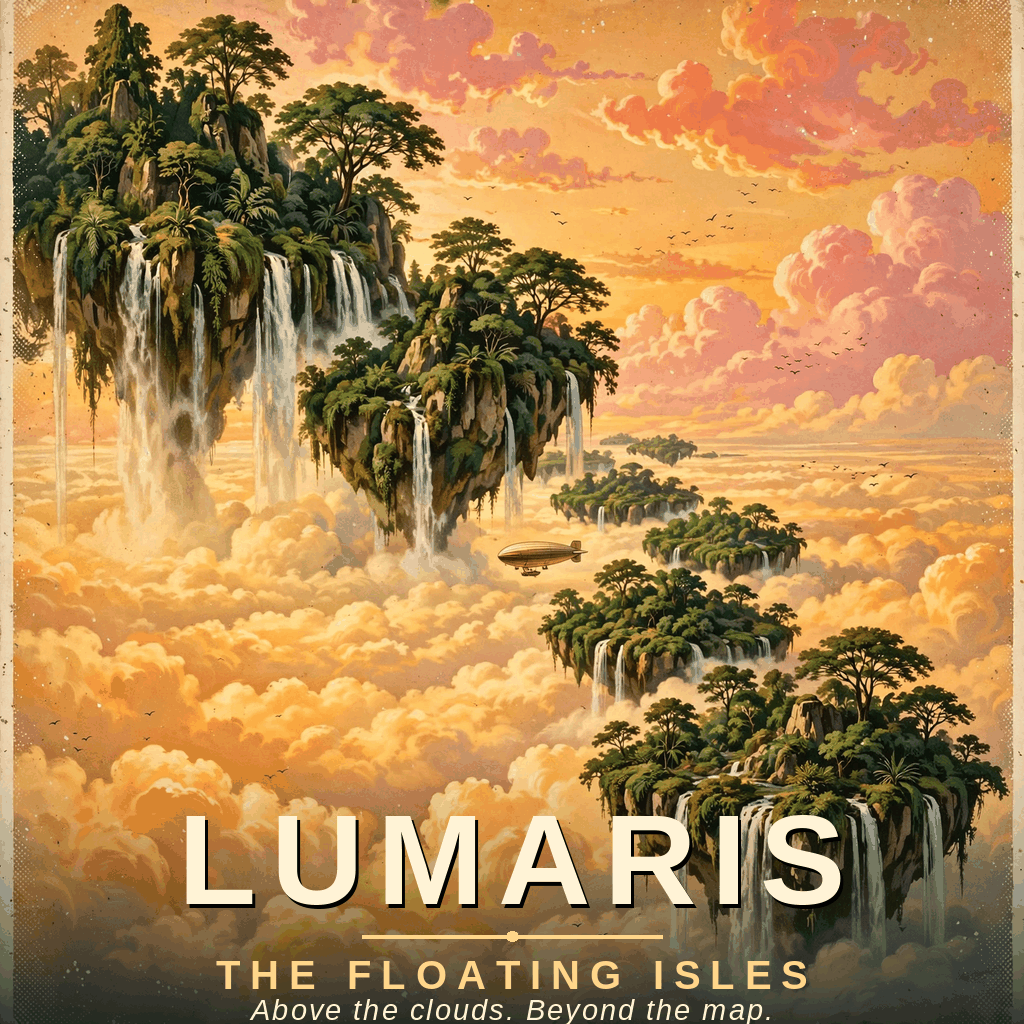
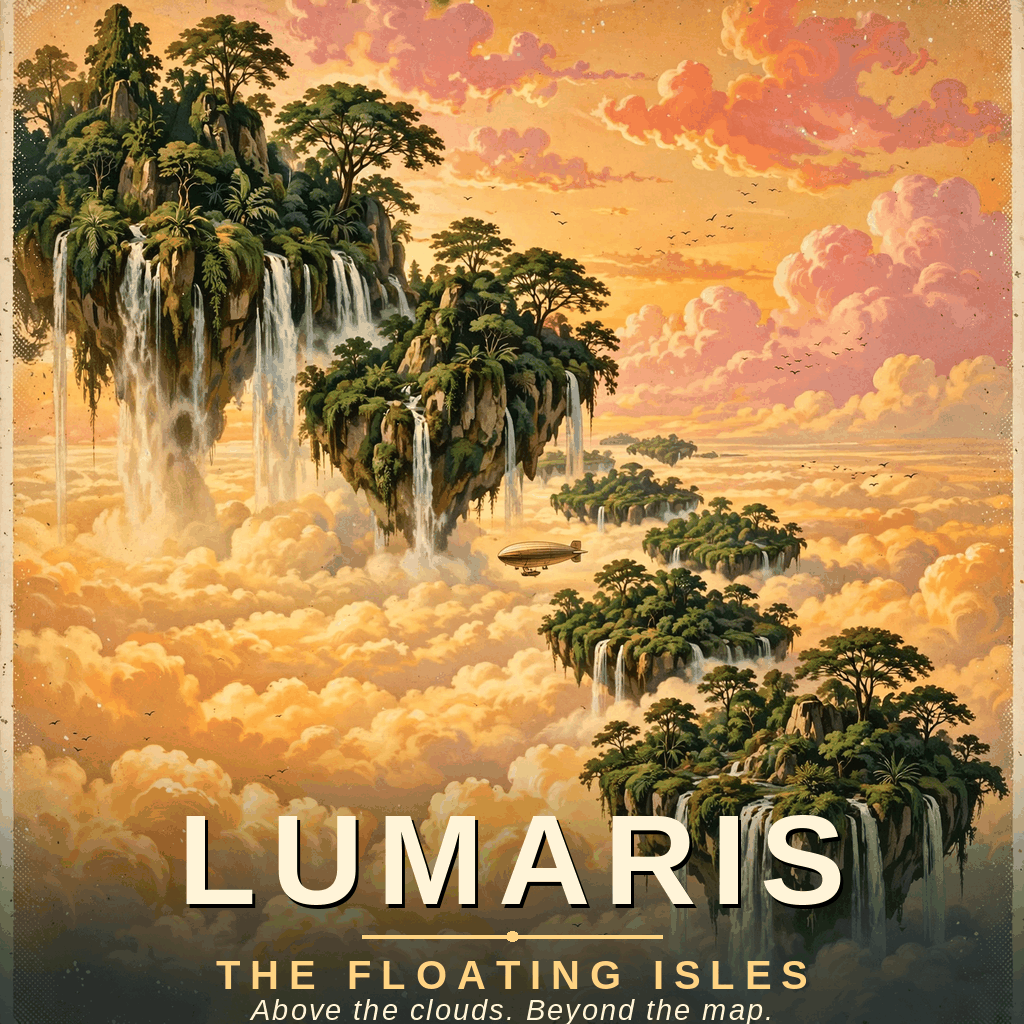
Rebuild LUMARIS poster in a post-open session

Changed region(s): [[0.0, 0.75, 1.0, 0.9688], [0.6562, 0.7812, 0.6875, 0.8125]]

diff --git a/main.ts b/main.ts
@@ -1,8 +1,9 @@
 // LUMARIS — The Floating Isles (the-poster-for-a-place-that-i-2-20261121-0539).
-// This program ships the travel poster drawn for the entry: it copies
-// the entry.png beside this file into the grader's output directory.
-// The source path is resolved from this file's own location, not from
-// the working directory, so the copy works wherever the program is run.
+//
+// This program ships the travel poster drawn for the entry. It copies
+// the entry.png next to this file into the grader's output directory.
+// The source is located relative to this file, never the working
+// directory, so the copy works from anywhere.
 import { copyFileSync, mkdirSync } from "node:fs";
 import { dirname, join } from "node:path";
 import { fileURLToPath } from "node:url";
